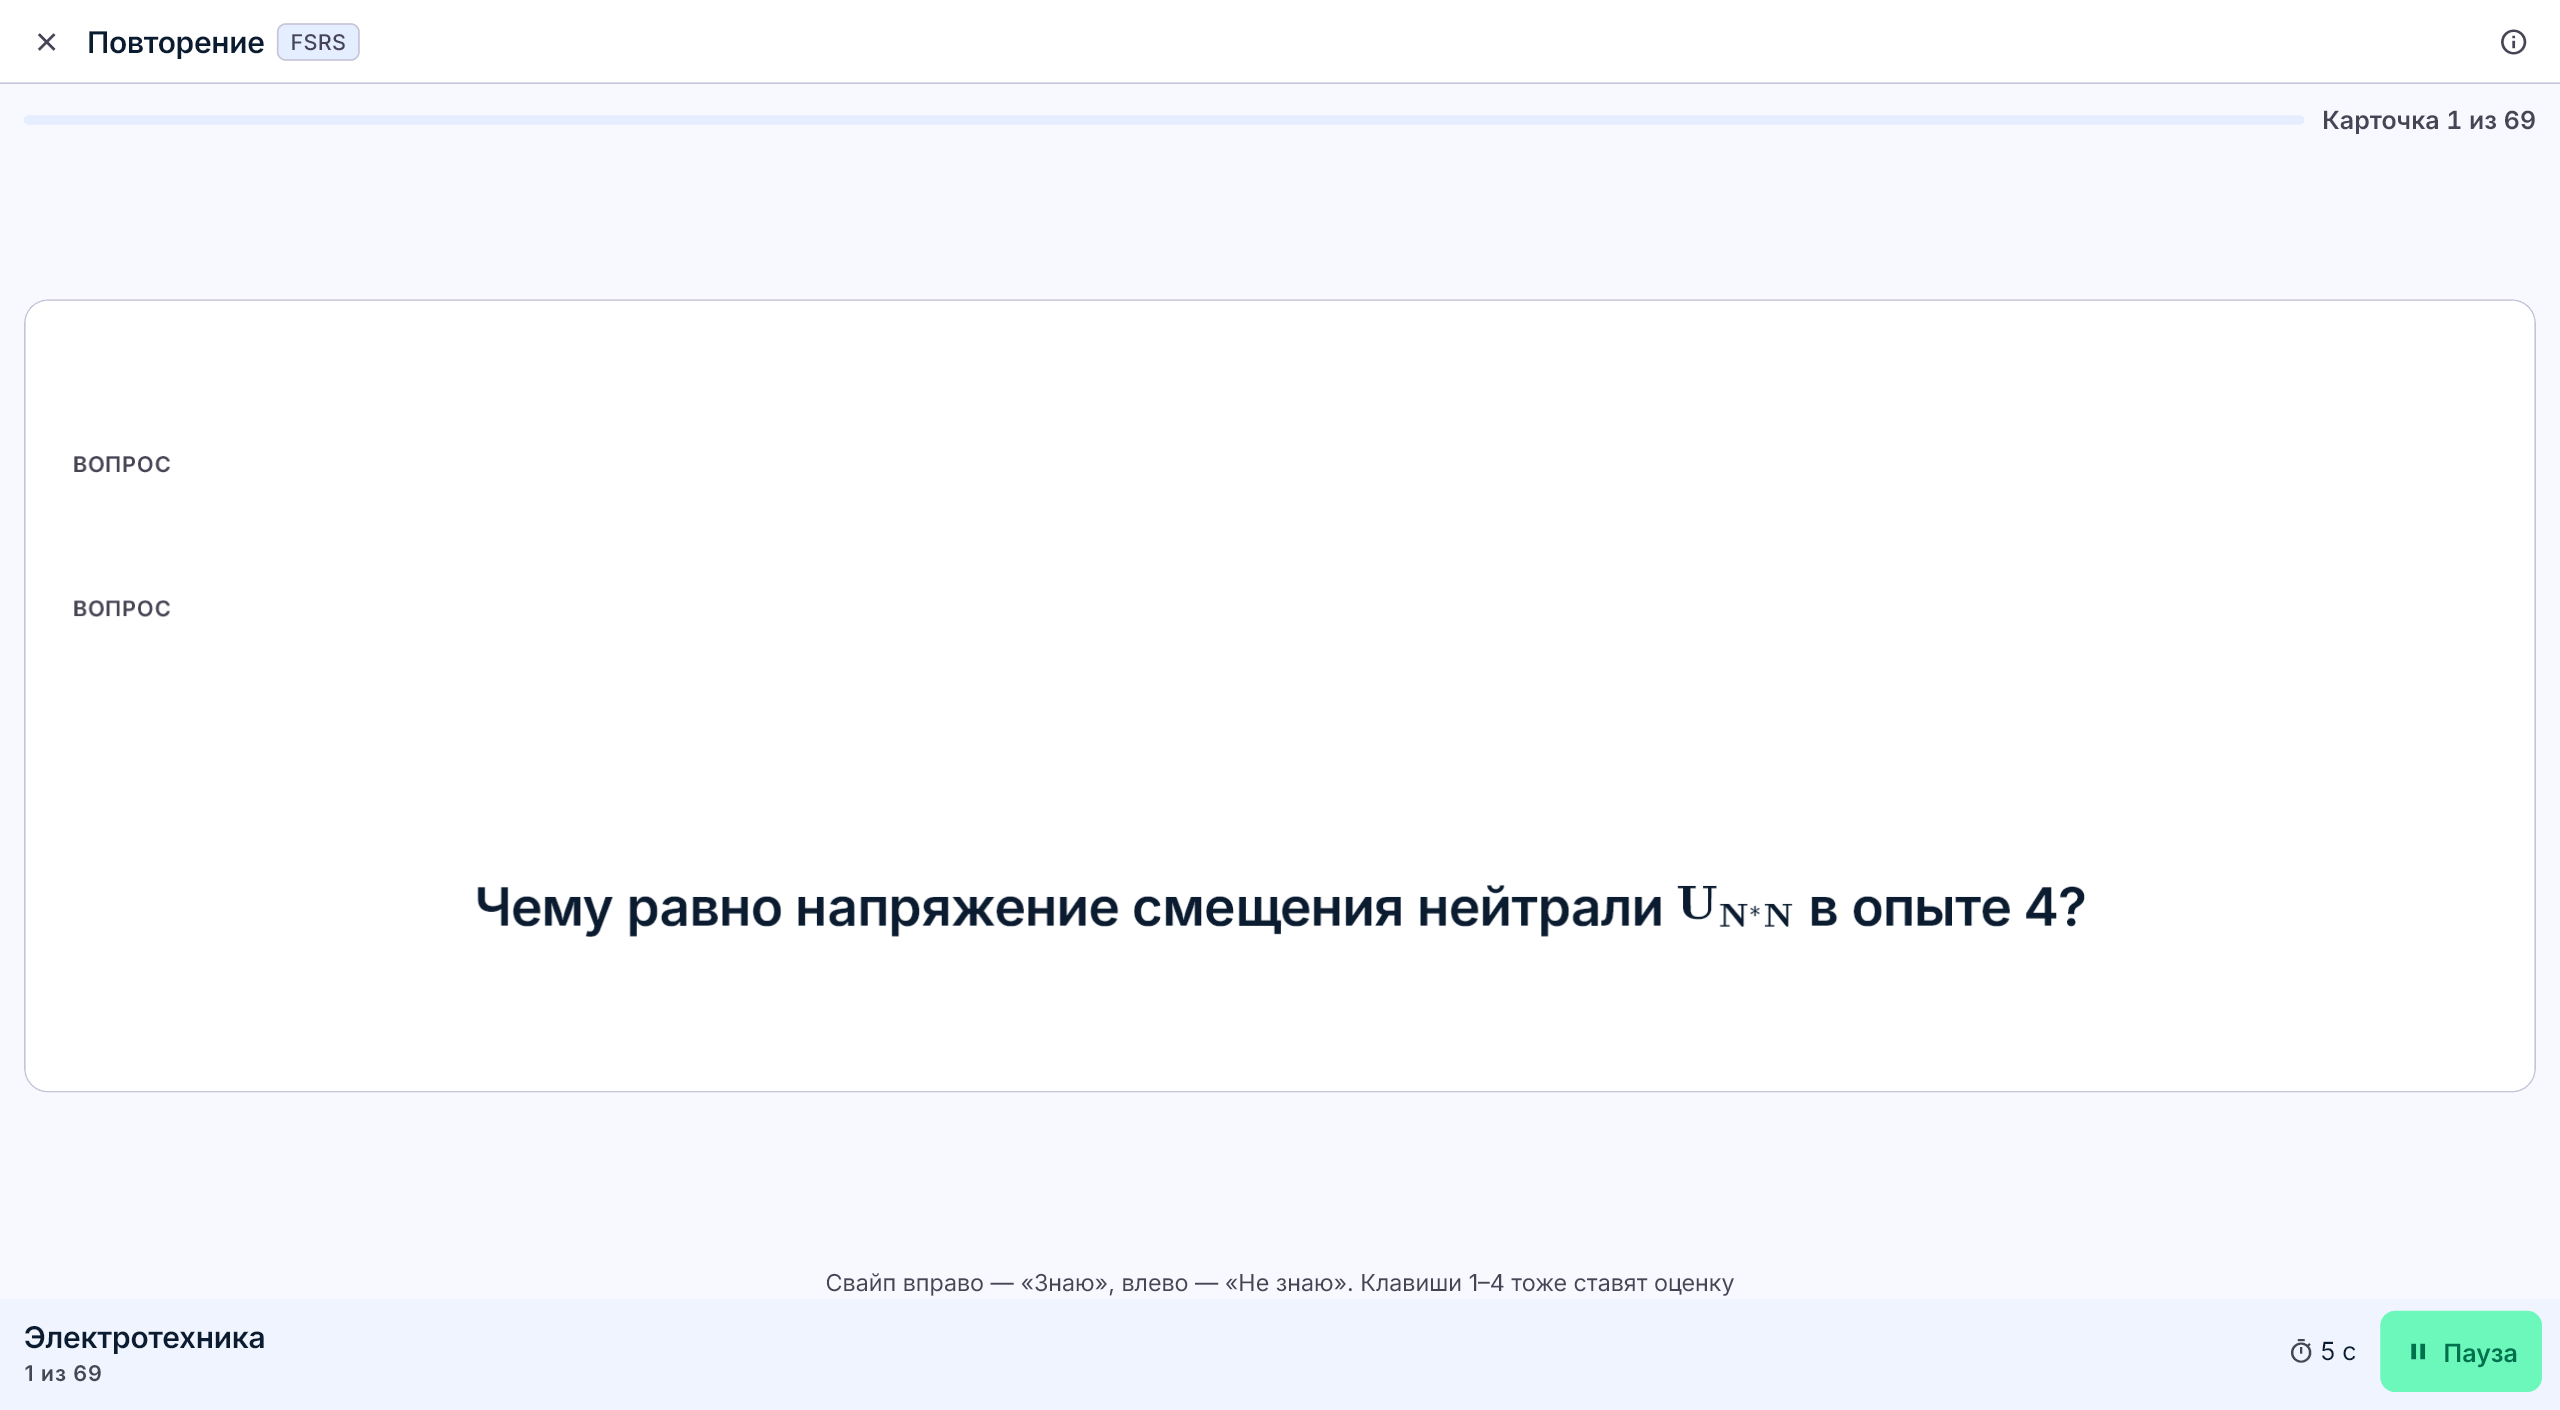
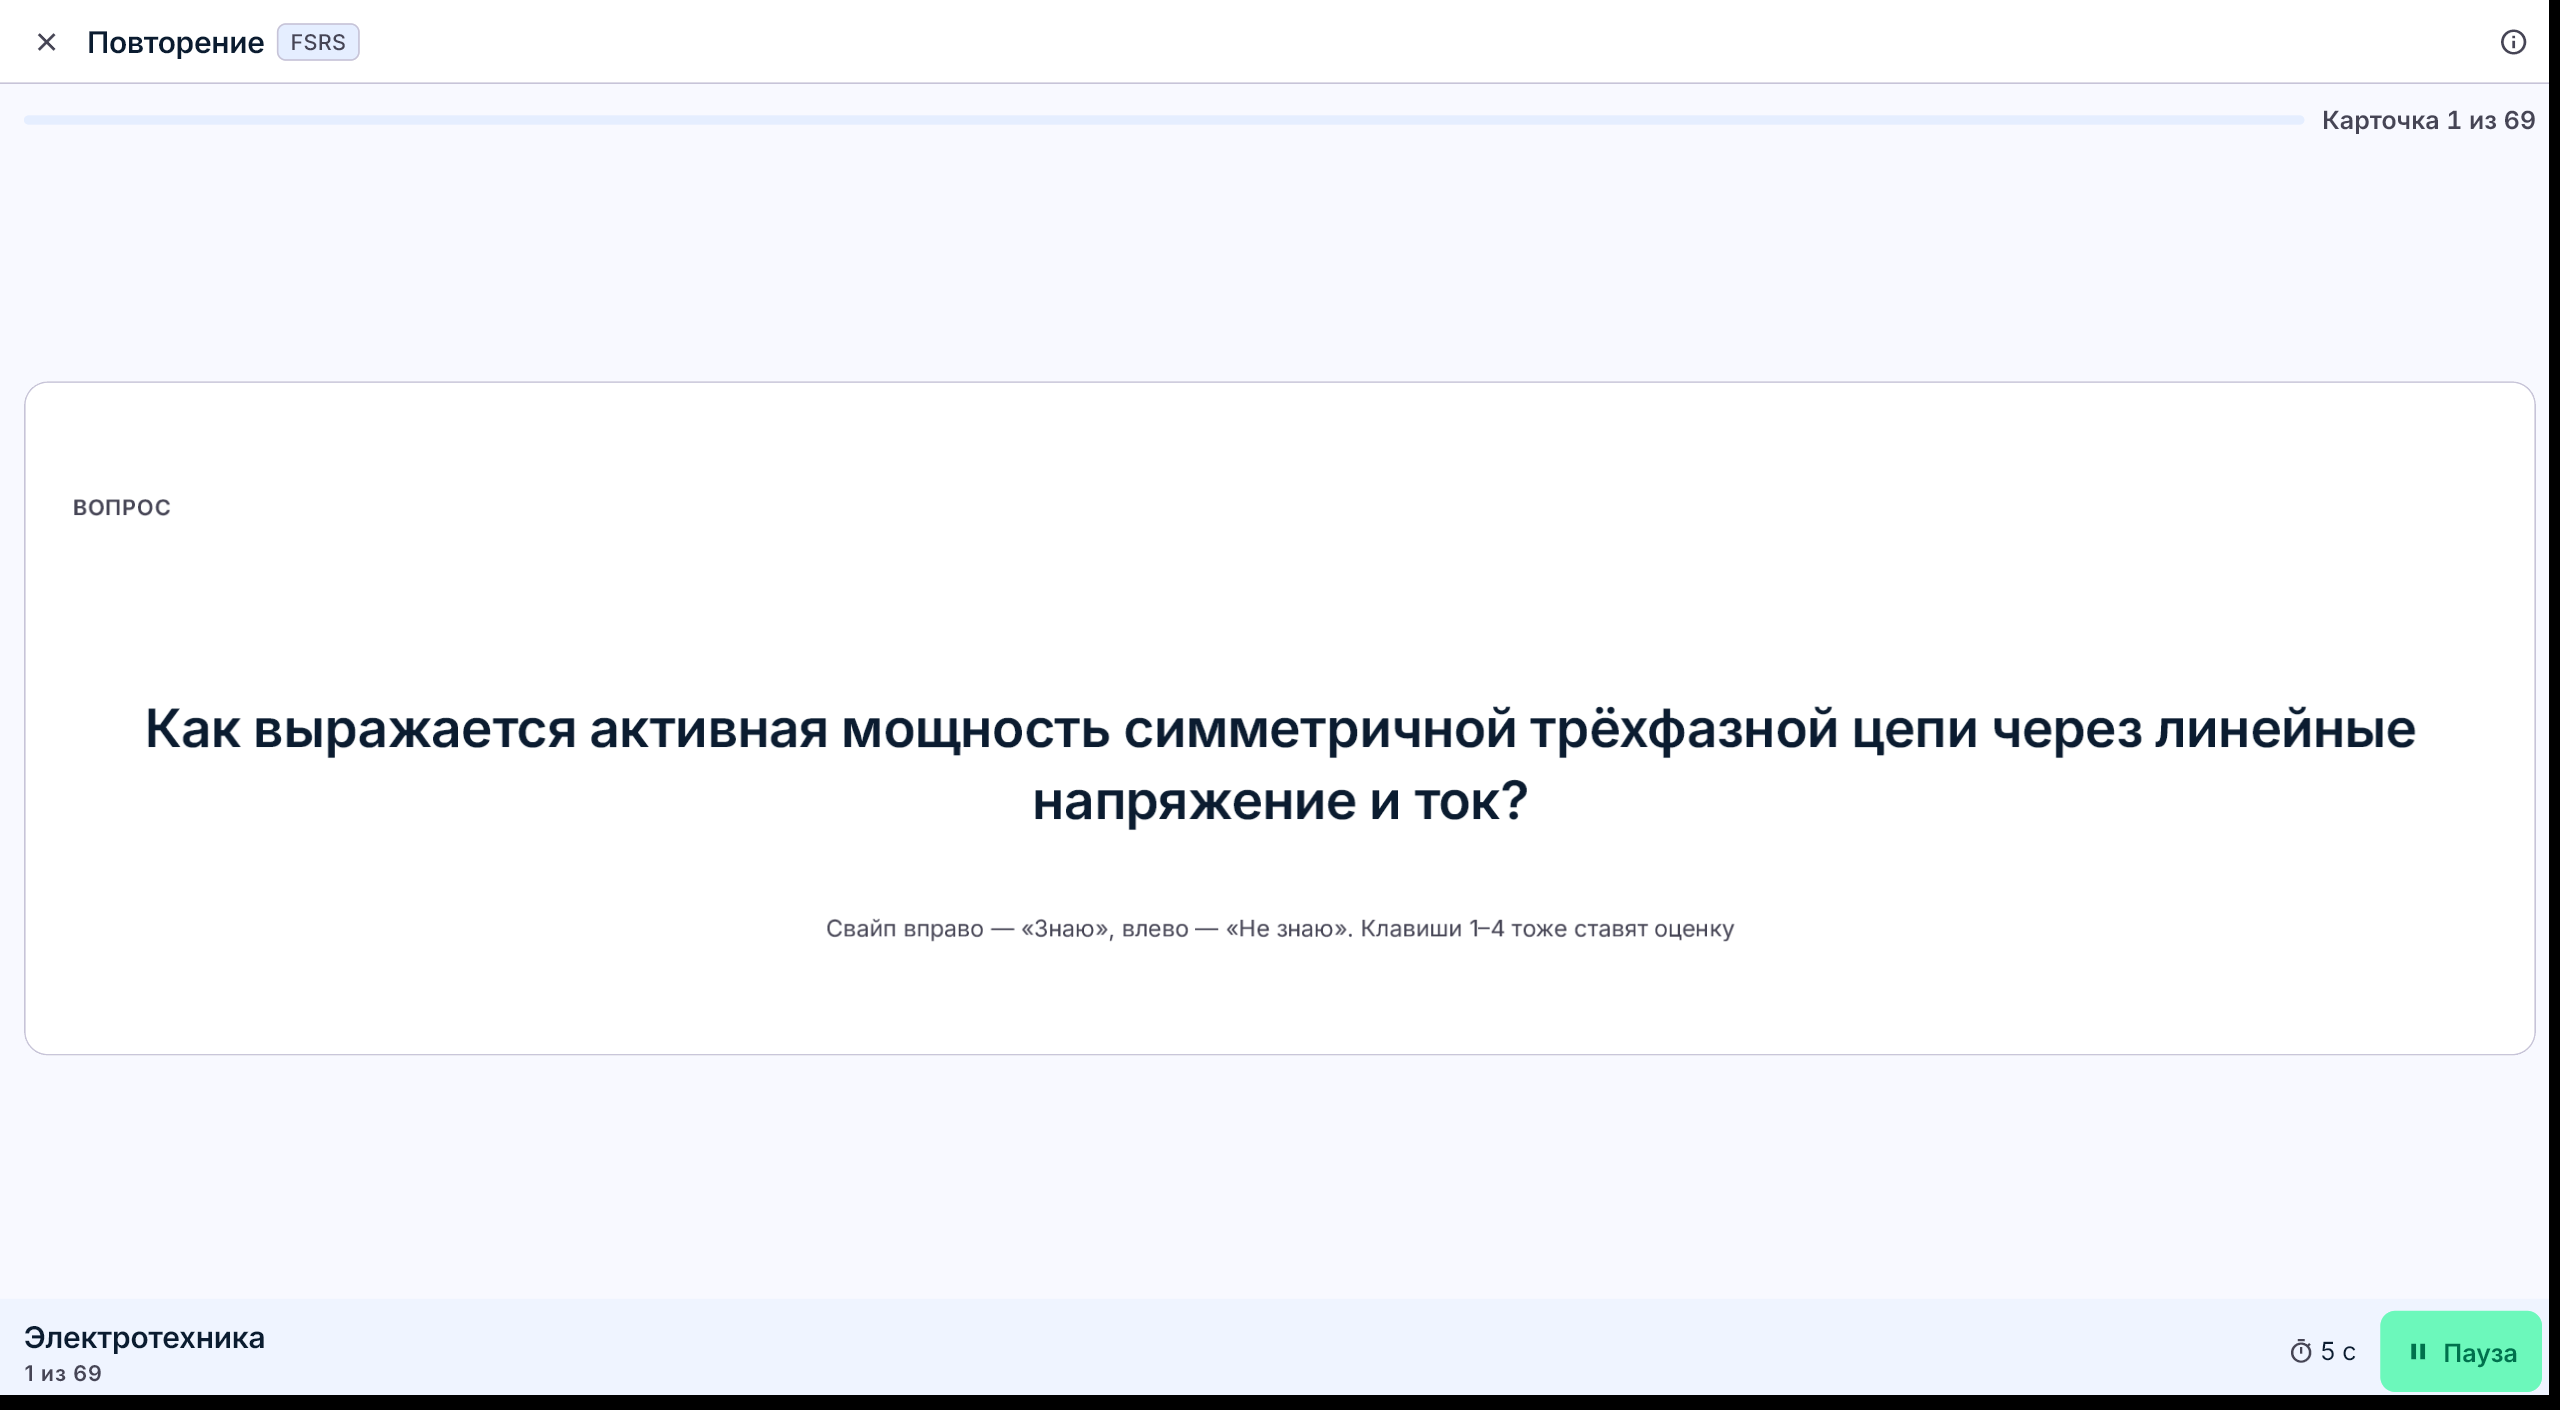
fix(feed): одна подсказка о свайпах внутри карточки, полоса ленты <=30 %
Ответ на финальный аудит v10 (G5/G8):
- убрана вторая подпись «ВОПРОС» на лицевой стороне «Ленты» (видимый дубль);
- подсказка о свайпах — одна строка внутри карточки, снаружи её больше нет;
- карточка ленты на 15 % ниже классики: сплошная пустая полоса
  45,2 % (v9) -> 33,9 % (v10) -> 29,4 % (вопрос) / 19,0 % (ответ);
- на низком окне лента не схлопывается, ответ читается.

diff --git a/lib/ui/review/feed_card_view.dart b/lib/ui/review/feed_card_view.dart
@@ -192,7 +192,9 @@ class _FeedCardViewState extends State<FeedCardView>
         final double factor = AppAdaptive.factorForContext(context);
         final double height = math.min(
           constraints.maxHeight,
-          AppSizes.studyCardMinHeight * factor,
+          // Карточка ленты чуть ниже классики: подсказка о свайпах и короткий
+          // вопрос не должны оставлять сплошную белую полосу >30 % (G8).
+          AppSizes.studyCardMinHeight * factor * 0.85,
         );
         _width = width;
         return AnimatedBuilder(
@@ -413,17 +415,6 @@ class _FlipFace extends StatelessWidget {
                         mainAxisAlignment: MainAxisAlignment.spaceEvenly,
                         crossAxisAlignment: CrossAxisAlignment.stretch,
                         children: <Widget>[
-                          // Аудит v9 (G11): надзаголовок стороны виден и на
-                          // лицевой стороне — как в карточке «Классики», и
-                          // делит пустоту на две части вместо одной (G3/G8).
-                          if (!showBack)
-                            Align(
-                              alignment: AlignmentDirectional.centerStart,
-                              child: Text(
-                                l10n.reviewQuestionLabel.toUpperCase(),
-                                style: AppTypography.overline(context),
-                              ),
-                            ),
                           // Аудит v4 (V22) + v5 (V5-11): оборот сохраняет вопрос-эхо,
                           // как в «Классике», — контекст не теряется после переворота.
                           if (showBack) ...<Widget>[
@@ -517,6 +508,18 @@ class _FlipFace extends StatelessWidget {
                                   imageMaxHeight: 340,
                                   imageMaxWidth: 760,
                                 ),
+                          // Аудит v10 (G8/G5): подсказка о свайпах — внутри
+                          // карточки, одной короткой строкой снизу. Она же делит
+                          // пустоту лица: сплошная полоса ≤30 % высоты.
+                          if (!showBack)
+                            Text(
+                              l10n.feedRateHint,
+                              key: const ValueKey<String>('feed-rate-hint'),
+                              textAlign: TextAlign.center,
+                              style: theme.textTheme.bodySmall?.copyWith(
+                                color: scheme.onSurfaceVariant,
+                              ),
+                            ),
                         ],
                       ),
                     ),

diff --git a/lib/ui/review/feed_session_screen.dart b/lib/ui/review/feed_session_screen.dart
@@ -568,40 +568,8 @@ class _FeedSessionScreenState extends ConsumerState<FeedSessionScreen>
             onDismiss: dismissSessionNotice,
             dismissTooltip: l10n.sessionNoticeDismiss,
           ),
-        // Находки F11/F14: в ленте не было ни подсказки о свайпах, ни кнопок
-        // оценки, ни клавиатурных эквивалентов для видимых действий.
-        // Аудит v4 (V25): одновременно с подсказкой панели оценок эта строка не
-        // показывается — одна подсказка на состояние.
-        // Подсказка о свайпах дублировала панель оценок (G5) и вместе с ней
-        // отнимала у карточки место на низком окне (G10) — только одна строка
-        // подсказки и только пока панели нет.
-        if (!(state.current?.revealed ?? false) &&
-            MediaQuery.sizeOf(context).height >= 330)
-          Padding(
-            padding: const EdgeInsets.fromLTRB(
-              AppSpacing.md,
-              AppSpacing.xs,
-              AppSpacing.md,
-              0,
-            ),
-            child: Center(
-              child: ConstrainedBox(
-                constraints: BoxConstraints(
-                  maxWidth: AppSizes.studyCardWidth(
-                    MediaQuery.sizeOf(context).width,
-                  ),
-                ),
-                child: Text(
-                  l10n.feedRateHint,
-                  key: const ValueKey<String>('feed-rate-hint'),
-                  textAlign: TextAlign.center,
-                  style: Theme.of(context).textTheme.bodySmall?.copyWith(
-                    color: Theme.of(context).colorScheme.onSurfaceVariant,
-                  ),
-                ),
-              ),
-            ),
-          ),
+        // Подсказка о свайпах теперь одна и внутри карточки (feed_card_view.dart,
+        // аудит v10 G5/G8): снаружи её нет — ни второй копии, ни лишней высоты.
         // G1: до раскрытия ответа панели оценок нет в дереве — в ленте она тоже
         // не «серая», а отсутствует; остаётся только видимая карточка и свайпы.
         if (state.current?.revealed ?? false)
